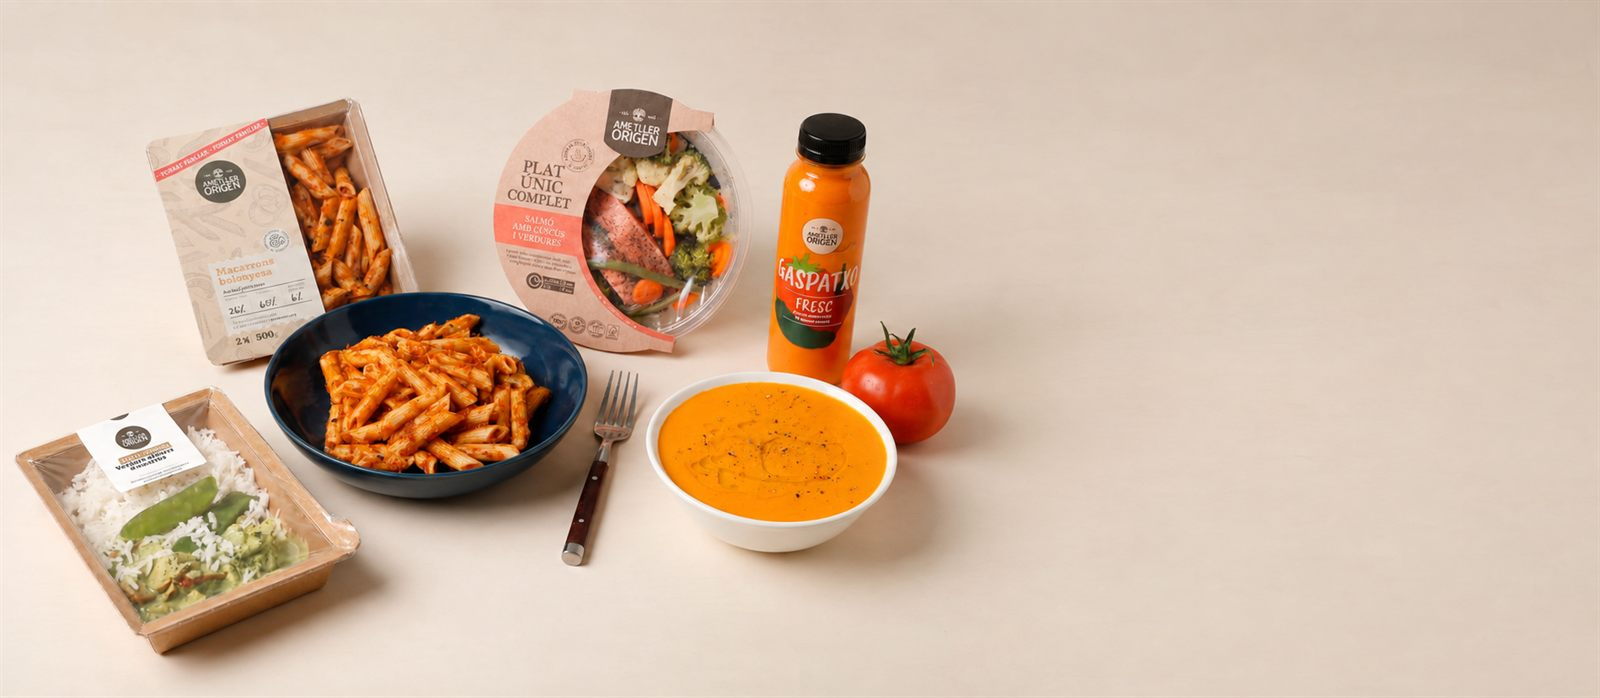
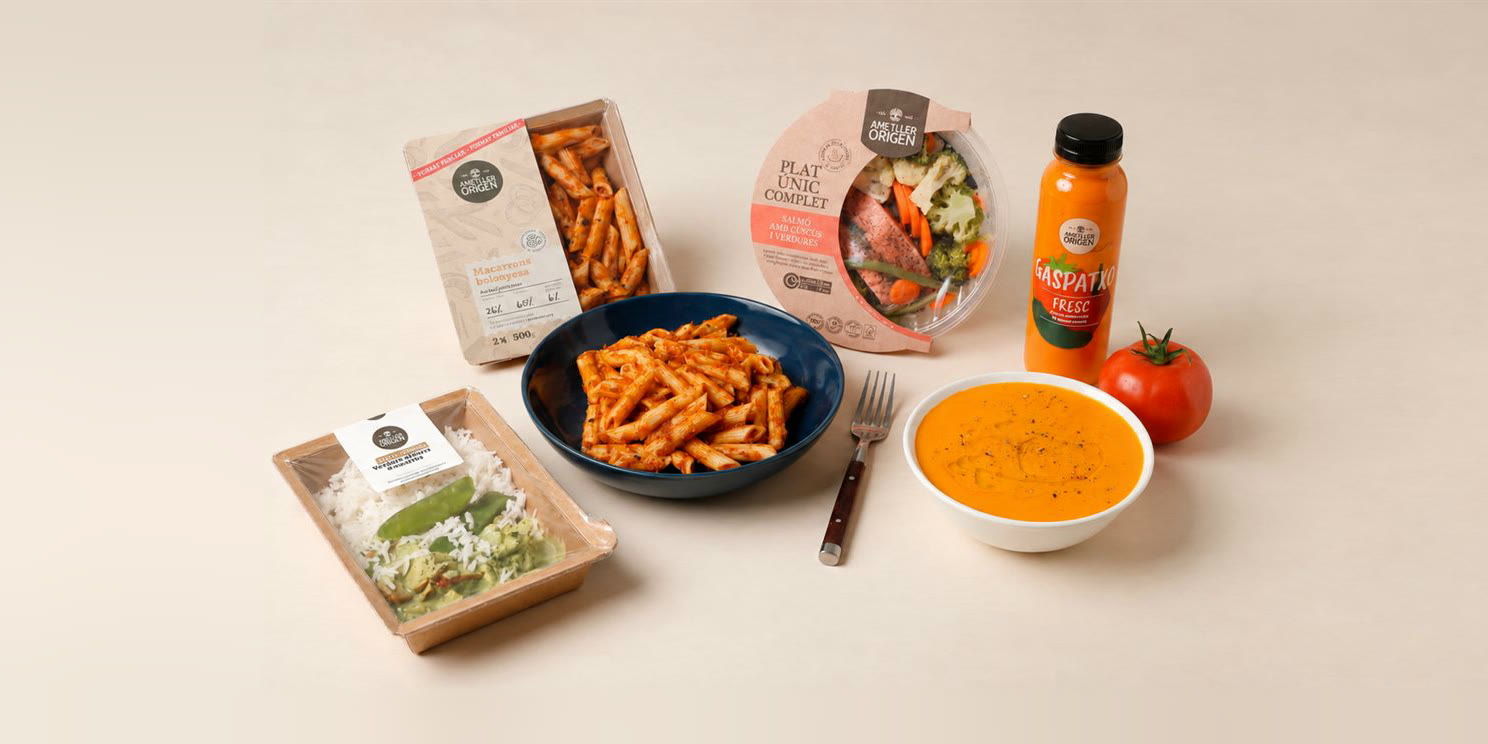
Bodegones de los modelos: productos centrados
En los dos bodegones los productos ocupaban el 60 % izquierdo de la foto (de
x=20 a x=970 sobre 1600) con un fondo vacio a la derecha. La tarjeta es 2:1 y
las fotos 2,2:1, asi que el recorte centrado se comia los primeros 74 px por la
izquierda y cortaba los productos de ese lado (los M&M's, la bandeja de arroz).
Con CSS no se podia centrar: no habia margen a la izquierda.

Se rehacen los archivos: fondo extendido por la izquierda y por abajo, y recorte
2:1 con el conjunto centrado. Margenes izquierdo y derecho iguales a +-2 px
(272/270 y 278/276) y los de arriba y abajo tambien (92/94 y 90/90). El fondo
extendido sale de una franja del borde, estirada y suavizada, y se funde con la
foto en los 14 px limpios del borde, antes de que empiecen los productos; sin
eso se nota una costura.

gama-productos.jpg pasa a 1492x746 y gama-ametller.jpg a 1488x744, exactamente
2:1, asi que la tarjeta ya no recorta. Se actualizan sus width/height en el HTML.
Las herramientas para repetirlo con otra foto quedan en herramientas/ (sin rutas
locales) y se documentan en el README.

diff --git a/index.html b/index.html
@@ -181,7 +181,7 @@
       <!-- ---- Modelo Arbitrade ---- -->
       <article class="modelo entra" id="modelo-arbitrade" aria-labelledby="n-arbitrade">
         <figure class="modelo-foto" data-foto-modelo="autogestion">
-          <img src="assets/img/gama-productos.jpg" width="1600" height="726" loading="lazy" decoding="async"
+          <img src="assets/img/gama-productos.jpg" width="1492" height="746" loading="lazy" decoding="async"
                alt="Surtido de una SmartShop: chocolatinas, un bol de ensalada, un yogur con frutos rojos, un sándwich de jamón y queso, un tarro de yogur natural, jamón serrano, patatas fritas, dos aguas embotelladas y dos refrescos.">
         </figure>
         <div class="modelo-texto">
@@ -222,7 +222,7 @@
       <!-- ---- Modelo Ametller Origen ---- -->
       <article class="modelo entra" id="modelo-ametller" aria-labelledby="n-ametller">
         <figure class="modelo-foto" data-foto-modelo="ametller">
-          <img src="assets/img/gama-ametller.jpg" width="1600" height="698" loading="lazy" decoding="async"
+          <img src="assets/img/gama-ametller.jpg" width="1488" height="744" loading="lazy" decoding="async"
                alt="Surtido del modelo Ametller Origen: macarrones boloñesa, un plato único de salmón con cuscús y verduras, arroz con verduras al curry verde, un bol de macarrones, una crema de verduras, un tomate y un gazpacho embotellado.">
         </figure>
         <div class="modelo-texto">

diff --git a/assets/js/datos.js b/assets/js/datos.js
@@ -87,8 +87,9 @@ window.SMARTSHOP = {
   /* ---------- La foto de cada modelo ----------
      La clave se corresponde con el data-foto-modelo de la tarjeta, que es el
      mismo vocabulario que usan data-presentacion y presentaciones. Si un modelo
-     no tiene entrada, se queda la que hubiera puesta en el HTML. La foto se
-     recorta a 2:1 en la tarjeta: las dos actuales miden 2,2 y 2,3. */
+     no tiene entrada, se queda la que hubiera puesta en el HTML. Las dos
+     fotos actuales son exactamente 2:1 y llevan los productos centrados (ver
+     README), asi que la tarjeta, que es 2:1, no recorta nada. */
   fotosModelo: {
     autogestion: {
       src: "assets/img/gama-productos.jpg",

diff --git a/README.md b/README.md
@@ -107,8 +107,8 @@ nada está oculto, **no hay restricción sobre dónde poner `.entra`**.
 - Las listas del desarrollo son `.detalle-lista` y **no** `.puntos`. `.puntos` está
   pensada para pantallas apretadas y varias reglas de alto la encogen (12,5 px
   en móviles bajos); aquí no hay límite de alto y no debe heredarlas.
-- La foto de cada bloque se recorta a 2:1 (las dos actuales miden 2,2 y 2,3).
-  Se cambia en `fotosModelo` de `datos.js`, con la misma clave que
+- La foto de cada bloque es **exactamente 2:1** y lleva los productos centrados
+  (ver «Bodegones centrados»), así que la tarjeta no recorta nada. Se cambia en `fotosModelo` de `datos.js`, con la misma clave que
   `data-foto-modelo` en el HTML (`autogestion`, `ametller`). Sin entrada en
   `datos.js` se queda la que lleva el HTML.
 - En el desarrollo, la lista va centrada junto al vídeo y el vídeo pegado abajo
@@ -232,13 +232,12 @@ castigue una conexión móvil.
   también la mejor candidata a miniatura al compartir el enlace.
 - `equipo-smartshop.jpg` — el equipo entero, en "¿Qué es una SmartShop?".
 - `gama-ametller.jpg` — el surtido del modelo Ametller Origen, en su tarjeta.
-  Es una **fotografía real** de producto, no una imagen generada. La tarjeta la
-  recorta a 2:1, así que pierde un poco por los lados; el producto está en el
-  centro y a la izquierda, y no se toca.
+  Es una **fotografía real** de producto, no una imagen generada. 1488×744, 2:1,
+  con los productos centrados (ver «Bodegones centrados»).
 - `gama-productos.jpg` — el bodegón de la tarjeta del modelo Arbitrade. Está
   recortado para dejar la cerveza fuera de cuadro; con ella se van también el
   agua y la Coca-Cola que había a su derecha, así que la sección no muestra
-  ninguna bebida. La tarjeta la recorta a 2:1, un poco por los lados. El original venía a 959 px de ancho:
+  ninguna bebida. 1492×746, 2:1, con los productos centrados (ver «Bodegones centrados»). El original venía a 959 px de ancho:
   suficiente para el tamaño al que se ve, pero si aparece la versión de estudio
   en alta, conviene sustituirlo.
 - `pv-desbloqueo-movil`, `pv-lector-pantalla`, `pv-fila-smartshops` y
@@ -259,6 +258,33 @@ castigue una conexión móvil.
 - `arbitrade-wordmark.svg` — el wordmark de la barra superior. Venía con
   `fill="currentColor"`; se le fijó el tinta de marca (`#38191A`) porque dentro
   de un `<img>` no hereda el color de la página.
+
+
+### Bodegones centrados
+
+Los dos bodegones de los modelos (`gama-productos.jpg` y `gama-ametller.jpg`)
+venían con los productos en el 60 % izquierdo de la foto (de x≈20 a x≈970 sobre
+1600 px) y un fondo beige vacío a la derecha. La tarjeta es 2:1 y las fotos
+2,2:1, así que el recorte centrado se comía los primeros 74 px por la izquierda
+y cortaba los productos de ese lado (los M&M's, la bandeja de arroz).
+Recolocarlas con CSS no basta, porque no hay margen a la izquierda para centrar.
+
+Se rehicieron los archivos: se extendió el fondo liso por la izquierda y por abajo
+(251 y 20 px en uno, 257 y 46 en el otro) y se recortó a 2:1 con el conjunto de
+productos en el centro (márgenes izquierdo y derecho iguales a ±2 px, y también
+los de arriba y abajo). El fondo extendido sale de una franja del propio borde,
+estirada y muy suavizada, y se funde con la foto en los 14 px limpios del borde,
+antes de que empiecen los productos: sin eso se nota una costura. Los originales
+siguen en el historial de git.
+
+Para repetirlo con una foto nueva están las dos herramientas de `herramientas/`:
+`medir-productos.ps1` (PowerShell, mide la caja que ocupan los productos) y
+`centrar-bodegon.sh` (ffmpeg, extiende el fondo y recorta). Con la caja medida,
+el relleno y el recorte se calculan así: margen vertical = el mayor de los dos;
+alto = alto de la caja + 2 × margen; ancho = 2 × alto; el centro horizontal de la
+ventana es el centro de la caja. `centrar-bodegon.sh` usa el `ffmpeg` del PATH, o el que indique la
+variable `FFMPEG`.
+
 
 ## Qué va en la web y qué en la presentación
 
